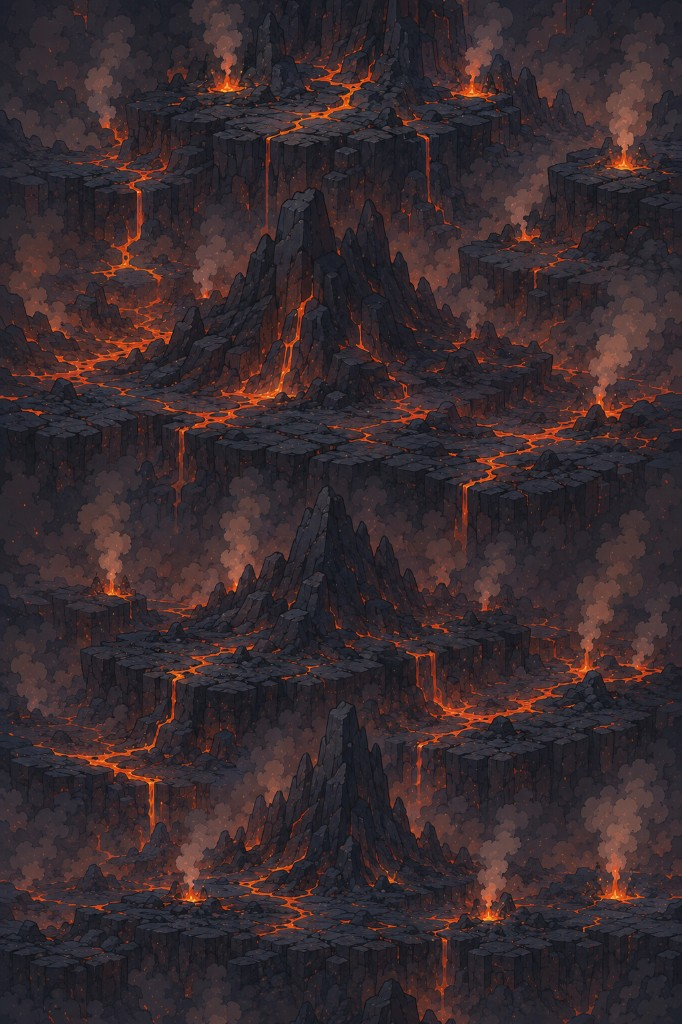
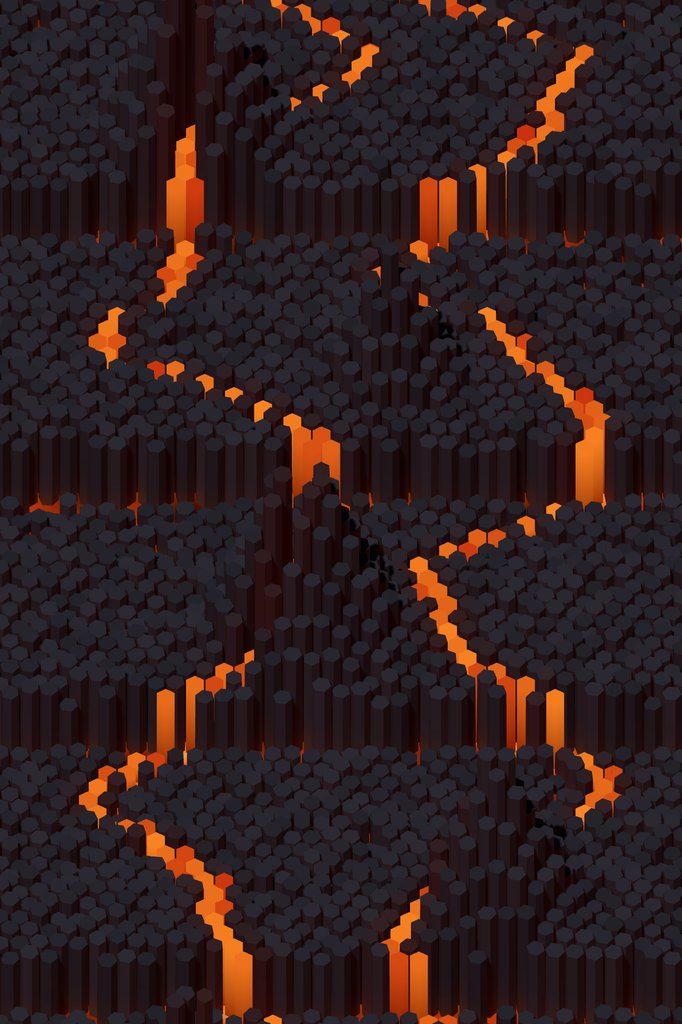
Climb backdrop: replace volcano tile with a seamless 3D render
The climb backdrop tile is now rendered from a procedural Three.js scene
(app/scripts/backdrop/volcano-tile.scene.js) with the render-3d skill:
terraced basalt columns, lava rivers that pour down the cliff faces, and
banks lit by their glow.

Same path, size (682x1024) and format as before, so climbBackground.ts,
the native bundle import and the replay export need no change. The scene
is periodic along the view axis under an orthographic camera, so the tile
repeats without a seam (last row vs first row differs less than a typical
pair of neighbouring rows does at 2x).

Claude-Session: https://claude.ai/code/session_015D2gceCmRhFct4buLVp5ea

diff --git a/app/scripts/backdrop/volcano-tile.scene.js b/app/scripts/backdrop/volcano-tile.scene.js
@@ -1,0 +1,228 @@
+// Climb backdrop tile: terraced basalt columns over a lava sea, seen from a
+// high orthographic angle. Rendered offline with the render-3d skill into
+// public/climb/volcano-tile.jpg (see public/climb/README.md).
+//
+// The tile repeats vertically in the game, so the scene is periodic: every
+// height, river and light is a function of z mod PERIOD, the grid has a whole
+// number of rows per period, and an orthographic camera turns a z-shift of one
+// PERIOD into a screen shift of exactly one frame height. No fog (it depends
+// on depth, which is not periodic).
+import * as THREE from 'three';
+
+// Seeded PRNG: the tile must render identically every time.
+function mulberry32(a){return function(){a|=0;a=a+0x6D2B79F5|0;let t=Math.imul(a^a>>>15,1|a);t=t+Math.imul(t^t>>>7,61|t)^t;return((t^t>>>14)>>>0)/4294967296}}
+
+const PERIOD = 40;            // world units of z per tile repeat
+const TILT = (52 * Math.PI) / 180; // camera pitch below horizontal
+const ASPECT = 2 / 3;         // tile width / height (same as the old tile)
+const SPACING = 0.6;          // hex column pitch
+const ROWS = 78;              // rows per period (even, for the hex stagger)
+const ROW_DZ = PERIOD / ROWS;
+const PERIODS = 5;            // render copies above and below the frame
+const TAU = Math.PI * 2;
+
+const viewH = PERIOD * Math.sin(TILT);
+const viewW = viewH * ASPECT;
+const COLS = Math.ceil((viewW * 1.3) / SPACING);
+
+// Periodic helpers: everything that varies along z goes through phase().
+const phase = (z) => (((z % PERIOD) + PERIOD) % PERIOD) / PERIOD;
+
+// Per-cell randomness keyed on the row within its period, so copies match.
+function cellRand(col, rowInPeriod, salt) {
+  const r = mulberry32((col * 7919) ^ (rowInPeriod * 104729) ^ (salt * 15485863));
+  r();
+  return r();
+}
+
+// Terraces rise away from the camera (so their cliff faces point at it) and
+// drop back down behind the highest step, where the drop is hidden.
+function terraceHeight(z) {
+  const p = phase(z) * 4; // four terraces per period
+  const local = p - Math.floor(p);
+  return 1.0 + Math.floor(local * 3) * 1.25;
+}
+
+// Lava rivers meander across the terraces.
+function riverDistance(x, z) {
+  const t = phase(z) * TAU;
+  const a = x - (-3.5 + 3.2 * Math.sin(t * 2 + 0.6) + 1.2 * Math.sin(t * 5 + 1.9));
+  const b = x - (4.8 + 2.6 * Math.sin(t * 3 + 2.4) + 0.9 * Math.cos(t * 7 + 0.3));
+  return Math.min(Math.abs(a), Math.abs(b));
+}
+
+// Spire clusters: a few tall rock peaks per period.
+const SPIRES = [
+  { x: -1.2, z: 0.16, r: 3.8, h: 11 },
+  { x: 4.8, z: 0.44, r: 3.0, h: 8 },
+  { x: -4.6, z: 0.69, r: 3.4, h: 9.5 },
+  { x: 1.6, z: 0.92, r: 2.6, h: 6.5 },
+];
+function spireHeight(x, z) {
+  const p = phase(z);
+  let best = 0;
+  for (const s of SPIRES) {
+    let dz = Math.abs(p - s.z);
+    dz = Math.min(dz, 1 - dz) * PERIOD;
+    const d = Math.hypot(x - s.x, dz);
+    if (d < s.r) best = Math.max(best, s.h * Math.pow(1 - d / s.r, 1.6));
+  }
+  return best;
+}
+
+export const scene = new THREE.Scene();
+scene.background = new THREE.Color(0x0e0a0b);
+
+// --- Lava sea (vertex-coloured, periodic) -------------------------------
+{
+  const zSpan = PERIOD * PERIODS;
+  const geo = new THREE.PlaneGeometry(viewW * 1.6, zSpan, 60, ROWS * PERIODS);
+  geo.rotateX(-Math.PI / 2);
+  const pos = geo.attributes.position;
+  const colors = new Float32Array(pos.count * 3);
+  const hot = new THREE.Color(0xffa040), mid = new THREE.Color(0xe8420e), cool = new THREE.Color(0x2a0a06);
+  const c = new THREE.Color();
+  for (let i = 0; i < pos.count; i++) {
+    const x = pos.getX(i), z = pos.getZ(i);
+    const t = phase(z) * TAU;
+    const n = 0.5 + 0.25 * Math.sin(x * 1.7 + t * 6) + 0.25 * Math.sin(x * 0.6 - t * 11 + 1.3);
+    const river = Math.max(0, 1 - riverDistance(x, z) / 0.9);
+    const heat = Math.min(1, n * 0.35 + river * 0.9);
+    if (heat > 0.5) c.copy(mid).lerp(hot, (heat - 0.5) * 2);
+    else c.copy(cool).lerp(mid, heat * 2);
+    colors.set([c.r, c.g, c.b], i * 3);
+  }
+  geo.setAttribute('color', new THREE.BufferAttribute(colors, 3));
+  const lava = new THREE.Mesh(geo, new THREE.MeshBasicMaterial({ vertexColors: true }));
+  lava.position.y = 0;
+  scene.add(lava);
+}
+
+// --- Basalt columns ------------------------------------------------------
+{
+  const geo = new THREE.CylinderGeometry(SPACING * 0.5, SPACING * 0.52, 1, 6, 4);
+  geo.translate(0, 0.5, 0); // base at y=0, scaled upward
+  // Lava glow at the foot of each column, fading up the shaft.
+  const pos = geo.attributes.position;
+  const col = new Float32Array(pos.count * 3);
+  for (let i = 0; i < pos.count; i++) {
+    const y = pos.getY(i);
+    const g = Math.pow(1 - y, 3);
+    const g2 = g * g;
+    col.set([0.32 + 0.68 * g2, 0.3 + 0.12 * g2, 0.34 - 0.2 * g2], i * 3);
+  }
+  geo.setAttribute('color', new THREE.BufferAttribute(col, 3));
+  const mat = new THREE.MeshStandardMaterial({
+    vertexColors: true,
+    roughness: 0.92,
+    metalness: 0.0,
+    flatShading: true,
+  });
+
+  const rowsTotal = ROWS * PERIODS;
+  const z0 = -PERIOD * Math.floor(PERIODS / 2) - PERIOD / 2;
+  const max = rowsTotal * COLS;
+  const mesh = new THREE.InstancedMesh(geo, mat, max);
+  // River cells: the same columns, molten, sitting just below the terrace so
+  // the flow shows on top and pours down each cliff face it crosses.
+  const lavaGeo = new THREE.CylinderGeometry(SPACING * 0.53, SPACING * 0.53, 1, 6, 1);
+  lavaGeo.translate(0, 0.5, 0);
+  {
+    // Crust darkens down the fall; the top surface stays molten.
+    const lp = lavaGeo.attributes.position;
+    const lc = new Float32Array(lp.count * 3);
+    for (let i = 0; i < lp.count; i++) {
+      const k = 0.35 + 0.65 * Math.pow(lp.getY(i), 0.6);
+      lc.set([k, k * k, k * k * k], i * 3);
+    }
+    lavaGeo.setAttribute('color', new THREE.BufferAttribute(lc, 3));
+  }
+  const lavaMesh = new THREE.InstancedMesh(lavaGeo, new THREE.MeshBasicMaterial({ vertexColors: true }), max);
+  const molten = new THREE.Color();
+  const lavaHot = new THREE.Color(0xff8a24), lavaCool = new THREE.Color(0xc8260a);
+  let nl = 0;
+  mesh.castShadow = true;
+  mesh.receiveShadow = true;
+  const m = new THREE.Matrix4();
+  const q = new THREE.Quaternion();
+  const s = new THREE.Vector3();
+  const p = new THREE.Vector3();
+  const shade = new THREE.Color();
+  const ember = new THREE.Color(0xff6a2a);
+  let n = 0;
+  for (let row = 0; row < rowsTotal; row++) {
+    const rowInPeriod = row % ROWS;
+    const z = z0 + row * ROW_DZ;
+    for (let ci = 0; ci < COLS; ci++) {
+      const x = (ci - COLS / 2) * SPACING + (rowInPeriod % 2 ? SPACING / 2 : 0);
+      const r1 = cellRand(ci, rowInPeriod, 1);
+      const r2 = cellRand(ci, rowInPeriod, 2);
+      // Rivers cut through; cliff edges crumble.
+      const base = terraceHeight(z);
+      const rd = riverDistance(x, z);
+      if (rd < 0.3 + r1 * 0.22) {
+        p.set(x, 0, z);
+        q.identity();
+        s.set(1, base - 0.28, 1);
+        m.compose(p, q, s);
+        lavaMesh.setMatrixAt(nl, m);
+        molten.copy(lavaCool).lerp(lavaHot, Math.max(0, 1 - rd / 0.5) * (0.75 + 0.25 * r2));
+        lavaMesh.setColorAt(nl++, molten);
+        continue;
+      }
+      const edge = phase(z) * 12 - Math.floor(phase(z) * 12);
+      if (edge > 0.9 && r2 < 0.35) continue;
+      const broken = cellRand(ci, rowInPeriod, 4) < 0.06 ? 0.55 : 0;
+      const h = base + spireHeight(x, z) + (r1 - 0.5) * 0.55 - broken;
+      p.set(x, 0, z);
+      q.setFromAxisAngle(new THREE.Vector3(0, 1, 0), r2 * 0.4);
+      s.set(0.92 + r2 * 0.12, Math.max(0.3, h), 0.92 + r1 * 0.12);
+      m.compose(p, q, s);
+      mesh.setMatrixAt(n, m);
+      shade.setScalar(0.36 + 0.2 * cellRand(ci, rowInPeriod, 3));
+      // Heat spill: columns on a river bank pick up its glow.
+      const spill = Math.max(0, 1 - (rd - 0.3) / 1.2);
+      shade.lerp(ember, spill * spill * 0.7);
+      mesh.setColorAt(n++, shade);
+    }
+  }
+  mesh.count = n;
+  mesh.instanceMatrix.needsUpdate = true;
+  mesh.instanceColor.needsUpdate = true;
+  lavaMesh.count = nl;
+  lavaMesh.instanceMatrix.needsUpdate = true;
+  lavaMesh.instanceColor.needsUpdate = true;
+  scene.add(mesh, lavaMesh);
+}
+
+// --- Lights --------------------------------------------------------------
+// Hemisphere: cold ash sky above, molten glow from below on column sides.
+scene.add(new THREE.HemisphereLight(0x2c2c38, 0xc8380e, 0.55));
+{
+  // Key light falls straight along -z/-y so its shadows are periodic too.
+  const sun = new THREE.DirectionalLight(0xb8b4c8, 0.9);
+  sun.position.set(-6, 30, 12);
+  sun.target.position.set(0, 0, 0);
+  sun.castShadow = true;
+  sun.shadow.mapSize.set(4096, 4096);
+  const half = PERIOD * 1.4;
+  Object.assign(sun.shadow.camera, { left: -half, right: half, top: half, bottom: -half, near: 1, far: 120 });
+  sun.shadow.bias = -0.0006;
+  scene.add(sun, sun.target);
+}
+
+// --- Camera ----------------------------------------------------------------
+export const camera = new THREE.OrthographicCamera(-viewW / 2, viewW / 2, viewH / 2, -viewH / 2, 0.1, 400);
+{
+  const dist = 120;
+  camera.position.set(0, dist * Math.sin(TILT), dist * Math.cos(TILT));
+  camera.lookAt(0, 0, 0);
+  camera.updateProjectionMatrix();
+}
+
+// Shadows need to be on in the renderer the harness builds.
+export function renderFrame(renderer, sc, cam) {
+  renderer.shadowMap.enabled = true;
+  renderer.shadowMap.type = THREE.PCFSoftShadowMap;
+  renderer.render(sc, cam);
+}

diff --git a/app/public/climb/README.md b/app/public/climb/README.md
@@ -151,3 +151,20 @@ generated art directly, ask for:
 - the same scale in every frame, feet on one ground line;
 - the named poses in the stated order (idle, run-a, run-b, reach-a, reach-b,
   falling, celebrate, down), plus the 6-frame back-view climb as its own image.
+
+## Climb backdrop (`volcano-tile.jpg`)
+
+A 682×1024 JPEG that `climbBackground.ts` repeats vertically behind the climb.
+It is a 3D render of `scripts/backdrop/volcano-tile.scene.js`, a procedural
+Three.js scene built to repeat without a seam (everything in it is periodic
+along the view axis, seen through an orthographic camera). To change it, edit
+the scene and re-render at 2× with the render-3d skill, then downscale:
+
+```bash
+RENDER_3D_CHROME_BIN=<chrome> node skills/render-3d/bin/preview-scene.mjs \
+  --code app/scripts/backdrop/volcano-tile.scene.js \
+  --out /tmp/tile.png --width 1364 --height 2048
+# then resize /tmp/tile.png to 682×1024 and save as JPEG (quality ~86)
+```
+
+Keep the 2:3 aspect: the game scales the tile to the canvas width.
